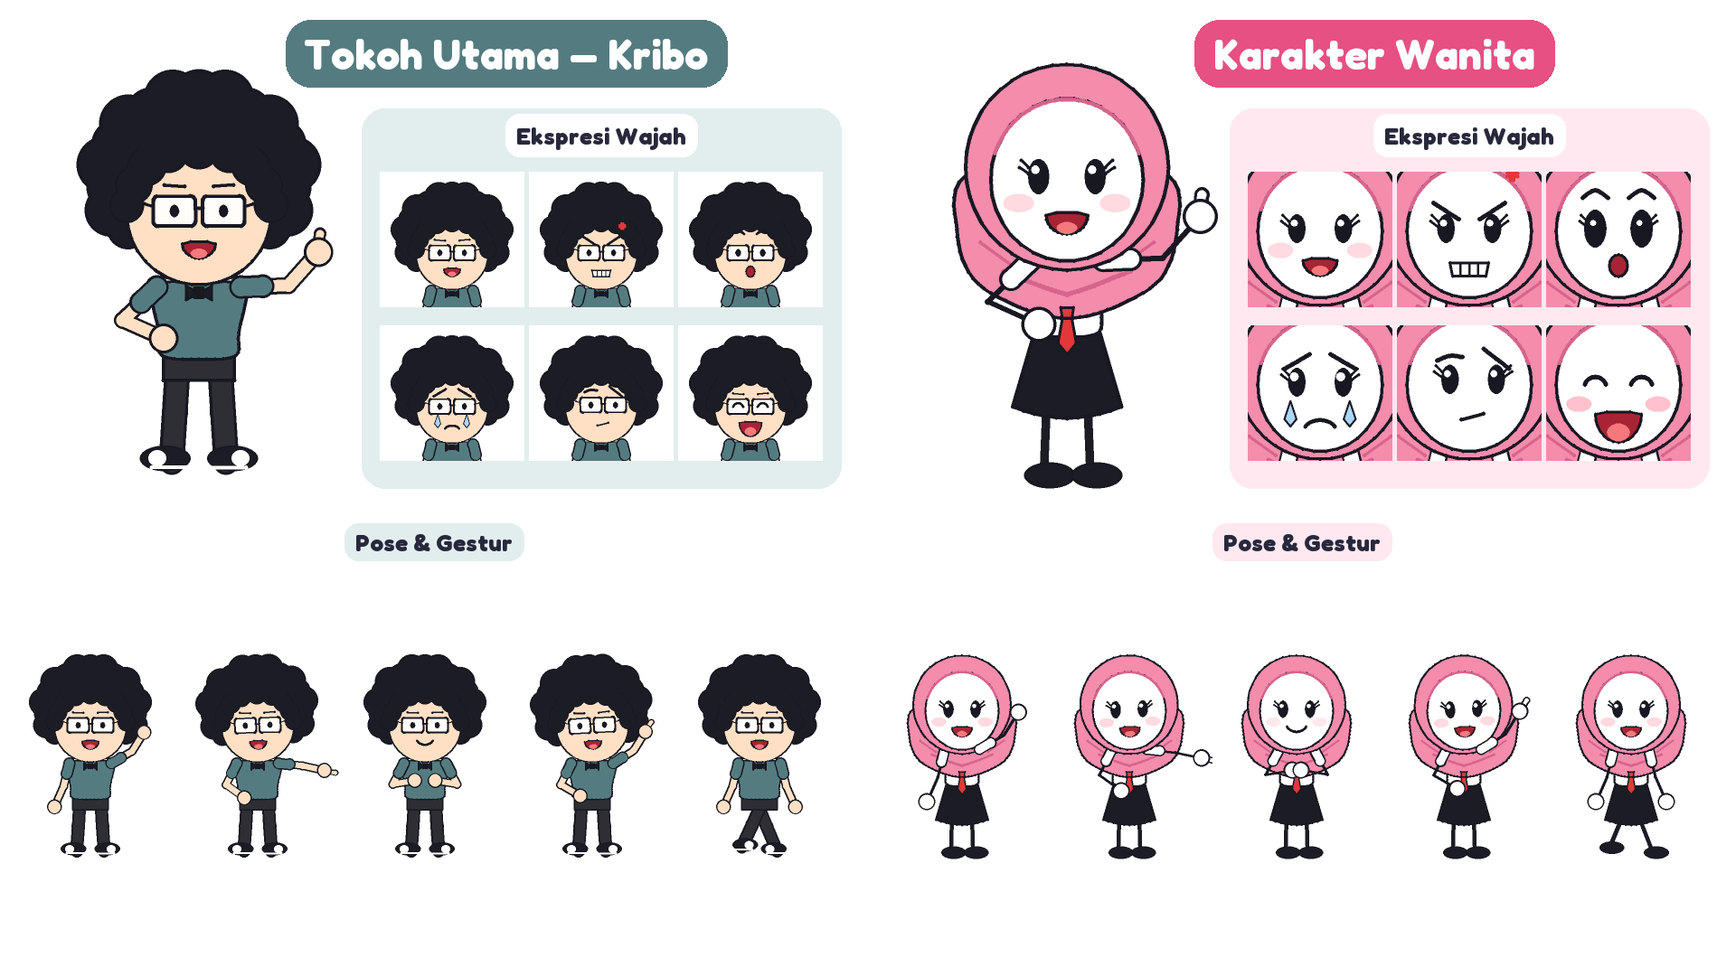
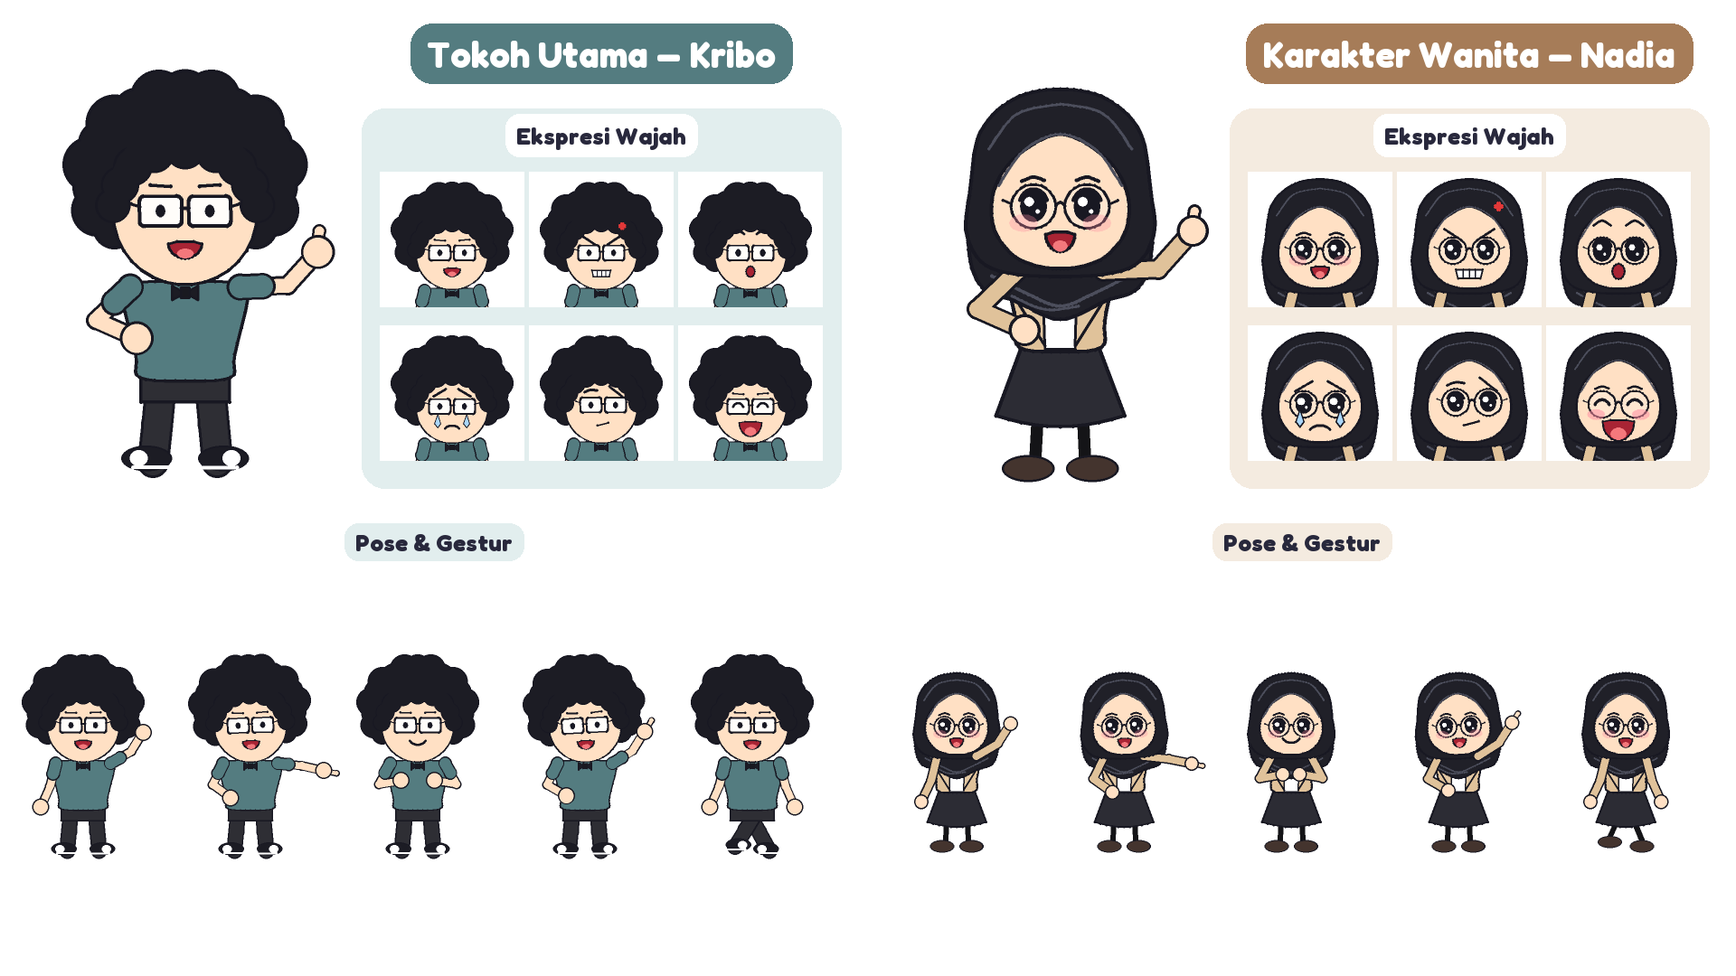
Redesign Nadia chibi hijab character, update gallery asset and docs

diff --git a/stikman-cerita/scripts/tokoh.py b/stikman-cerita/scripts/tokoh.py
@@ -27,11 +27,17 @@ PRESET = {
     "kribo":  dict(nama="Kribo", rambut="afro", rambut_warna=HITAM, kulit=(255, 224, 196),
                    kacamata="kotak", wajah_maskulin=True, kemeja=(84, 124, 128), krah=False, kancing=False,
                    dasi=None, dasi_kupu=True, lengan_tebal=True, sepatu_sneaker=True,
-                   badan_lebar=1.55, pinggul_lebar=1.45, bahu_x=58.0, lengan_besar=1.05,
-                   hip_y=-135.0, kaki_tebal=1.85, kaki_lebar=1.45, sepatu_besar=1.25, tangan_besar=1.05,
+                   badan_lebar=2.05, pinggul_lebar=1.8, bahu_x=76.0, lengan_besar=1.25,
+                   hip_y=-105.0, kaki_tebal=2.4, kaki_lebar=1.7, sepatu_besar=1.25, tangan_besar=1.22,
                    bawah="celana", bawah_warna=(46, 46, 52)),
     "raka":   dict(nama="Raka", rambut="jambul", rambut_warna=HITAM, kemeja=PUTIH, dasi=BIRU, bawah="celana", bawah_warna=HITAM),
-    "nadia":  dict(nama="Nadia", hijab=PINK, hijab_tua=PINK_TUA, kemeja=PUTIH, dasi=MERAH, bawah="rok", bawah_warna=HITAM, bulu_mata=True),
+    "nadia":  dict(nama="Nadia", hijab=(32, 32, 40), hijab_tua=(76, 78, 92), hijab_gaya="modern",
+                   kulit=(255, 224, 196), kacamata="bulat", mata_chibi=True, bulu_mata=False,
+                   kemeja=(224, 194, 154), kemeja_dalam=PUTIH, blazer=True, krah=False, kancing=False, dasi=None,
+                   lengan_tebal=True, lengan_panjang=True,
+                   badan_lebar=1.45, pinggul_lebar=1.4, bahu_x=52.0, lengan_besar=1.0,
+                   hip_y=-138.0, kaki_tebal=1.55, kaki_lebar=1.18, sepatu_besar=1.12, tangan_besar=0.98,
+                   bawah="rok", bawah_warna=(44, 44, 52), sepatu=(68, 52, 46)),
     "bimo":   dict(nama="Bimo", rambut="keriting", rambut_warna=(62, 40, 34), kemeja=PUTIH, dasi=BIRU, bawah="celana", bawah_warna=HITAM),
     "dimas":  dict(nama="Dimas", rambut="rapi", rambut_warna=HITAM, kacamata=True, kemeja=PUTIH, dasi=BIRU, bawah="celana", bawah_warna=HITAM),
     "sari":   dict(nama="Sari", hijab=(250, 250, 252), hijab_tua=ABU, kemeja=PUTIH, dasi=MERAH, bawah="rok", bawah_warna=HITAM, bulu_mata=True),
@@ -257,10 +263,12 @@ class Tokoh:
                 c.line([(fx - toe * fl * 21 * s * sm, fy + 6 * s * sm),
                         (fx + toe * fl * 22 * s * sm, fy + 6 * s * sm)], PUTIH, 3.8 * s * sm)
             else:
-                c.ell(fx + fl * 7 * s, fy - 4 * s, 27 * s, 13 * s, sepatu, ow * .6, OUT)
+                toe = (-1 if i == 0 else 1) if bw > 1.2 else 1
+                c.ell(fx + toe * fl * 7 * s * sm, fy - 4 * s * sm, 27 * s * sm, 13 * s * sm, sepatu, ow * .6, OUT)
         if skirt:
             hem = hy + 74 + dy * 0.9
-            c.poly(TT([(-36, hy - 12), (36, hy - 12), (60, hem - 4)] + bezier((60, hem - 4), (0, hem + 22), (-60, hem - 4), 10)[1:-1] + [(-60, hem - 4)]),
+            sw = max(1.0, hipb * 0.92)
+            c.poly(TT([(-36 * sw, hy - 12), (36 * sw, hy - 12), (60 * sw, hem - 4)] + bezier((60 * sw, hem - 4), (0, hem + 22), (-60 * sw, hem - 4), 10)[1:-1] + [(-60 * sw, hem - 4)]),
                    bawah_c, ow, OUT)
         if not skirt and bw > 1.2:
             c.poly(TT([(-34 * hipb, hy - 14), (34 * hipb, hy - 14),
@@ -270,6 +278,18 @@ class Tokoh:
                    (43 * bw, SHOULDER_Y + 6), (38 * hipb, hy - 44), (35 * hipb, hy - 12),
                    (0, hy - 7), (-35 * hipb, hy - 12), (-38 * hipb, hy - 44)]),
                kemeja, ow, OUT, n=5)
+        if p.get("blazer"):
+            inner_c = warna(p.get("kemeja_dalam"), PUTIH)
+            lap_c = terang(kemeja, 0.08)
+            c.poly(TT([(-19 * bw, SHOULDER_Y + 4), (19 * bw, SHOULDER_Y + 4),
+                       (13 * hipb, hy - 10), (-13 * hipb, hy - 10)]), inner_c, ow * .65, OUT)
+            for sg in (-1, 1):
+                c.poly(TT([(sg * 16 * bw, SHOULDER_Y + 4),
+                           (sg * 34 * bw, SHOULDER_Y + 14),
+                           (sg * 29 * bw, SHOULDER_Y + 34),
+                           (sg * 35 * bw, SHOULDER_Y + 42),
+                           (sg * 13 * hipb, hy - 14),
+                           (sg * 14 * bw, SHOULDER_Y + 26)]), lap_c, ow * .75, OUT)
         if p.get("kemeja_garis"):
             gc = warna(p["kemeja_garis"], BIRU)
             for yy in (-215, -192, -170):
@@ -298,12 +318,22 @@ class Tokoh:
         # ---- hijab: drape di bawah dagu
         if p.get("hijab"):
             hj, hjd = warna(p["hijab"]), warna(p.get("hijab_tua"), gelap(warna(p["hijab"]), .15))
-            c.blob(TT([(-112, -336), (-122, -276), (-104, -222), (-52, -190), (0, -178), (52, -190), (104, -222), (122, -276), (112, -336), (0, -380)]),
-                   hj, ow, OUT, n=7)
-            c.curve(TT([(-70, -230), (-30, -214), (0, -204)]), hjd, 5 * s)
-            c.curve(TT([(70, -230), (30, -214), (0, -204)]), hjd, 5 * s)
-            c.curve(TT([(-96, -262), (-60, -236)]), hjd, 4 * s)
-            c.curve(TT([(96, -262), (60, -236)]), hjd, 4 * s)
+            if p.get("hijab_gaya") == "modern":
+                # selendang hijab modern: melilit leher & jatuh lembut di dada atas agar bahu blazer tetap tampak
+                c.blob(TT([(-100, -328), (-110, -268), (-94, -222), (-54, -206), (0, -184),
+                           (54, -206), (94, -222), (110, -268), (100, -328), (0, -388)]),
+                       hj, ow, OUT, n=7)
+                c.curve(TT([(-82, -236), (-38, -214), (0, -200), (38, -214), (82, -236)]), hjd, 4.0 * s)
+                c.curve(TT([(-58, -212), (-18, -196), (22, -200)]), hjd, 3.4 * s)
+                c.curve(TT([(-94, -264), (-66, -238)]), hjd, 3.2 * s)
+                c.curve(TT([(94, -264), (66, -238)]), hjd, 3.2 * s)
+            else:
+                c.blob(TT([(-112, -336), (-122, -276), (-104, -222), (-52, -190), (0, -178), (52, -190), (104, -222), (122, -276), (112, -336), (0, -380)]),
+                       hj, ow, OUT, n=7)
+                c.curve(TT([(-70, -230), (-30, -214), (0, -204)]), hjd, 5 * s)
+                c.curve(TT([(70, -230), (30, -214), (0, -204)]), hjd, 5 * s)
+                c.curve(TT([(-96, -262), (-60, -236)]), hjd, 4 * s)
+                c.curve(TT([(96, -262), (60, -236)]), hjd, 4 * s)
             # dasi tampak di bawah drape
             if dasi and not p.get("dasi_kupu"):
                 c.poly(TT([(-7, -190), (7, -190), (5, -178), (-5, -178)]), dasi, ow * .7, OUT)
@@ -372,15 +402,20 @@ class Tokoh:
         lb = float(self.p.get("lengan_besar", 1.0)) if tebal else 1.0
         tb = float(self.p.get("tangan_besar", 1.0))
         skin = warna(self.p.get("kulit"), PUTIH)
-        # lengan kartun berisi (tube kulit) atau lengan garis tipis seperti preset lama
-        if tebal:
-            arm_w = 16 * lb
+        # lengan kartun berisi (tube kulit / lengan panjang blazer) atau lengan garis tipis seperti preset lama
+        if self.p.get("lengan_panjang"):
+            arm_w = 19 * lb
             c.line([S, E, H], OUT, (arm_w + 2 * 3.4) * s)
-            c.line([S, E, H], skin, arm_w * s)
+            c.line([S, E, H], sleeve, arm_w * s)
         else:
-            c.line([S, E, H], OUT, 6.5 * s)
-        sl = (sh[0] + (el[0] - sh[0]) * 0.46, sh[1] + (el[1] - sh[1]) * 0.46)
-        c.tube(S, T(*sl), (24 * lb if tebal else 19) * s, sleeve, 3.4 * s)
+            if tebal:
+                arm_w = 16 * lb
+                c.line([S, E, H], OUT, (arm_w + 2 * 3.4) * s)
+                c.line([S, E, H], skin, arm_w * s)
+            else:
+                c.line([S, E, H], OUT, 6.5 * s)
+            sl = (sh[0] + (el[0] - sh[0]) * 0.46, sh[1] + (el[1] - sh[1]) * 0.46)
+            c.tube(S, T(*sl), (24 * lb if tebal else 19) * s, sleeve, 3.4 * s)
         # tangan
         dirv = (H[0] - E[0], H[1] - E[1])
         ang = math.atan2(dirv[1], dirv[0])
@@ -423,8 +458,19 @@ class Tokoh:
         r = p.get("rambut")
         if hij:
             hj, hjd = warna(p["hijab"]), warna(p.get("hijab_tua"), gelap(warna(p["hijab"]), .15))
-            outer = HH(_ellpts(0, -14, 112, 114))
-            c.poly(outer, hj, ow, OUT)
+            if p.get("hijab_gaya") == "modern":
+                # kubah hijab bundar halus (mirip referensi chibi) mengalir lembut ke bahu
+                outer = HH([
+                    (-108, -10), (-96, -78), (-56, -118), (0, -130),
+                    (56, -118), (96, -78), (108, -10),
+                    (112, 46), (82, 86), (0, 96), (-82, 86), (-112, 46),
+                ])
+                c.blob(outer, hj, ow, OUT, n=7)
+                c.curve(HH([(-86, -58), (-52, -100), (0, -112)]), hjd, 3.0 * s)
+                c.curve(HH([(86, -58), (52, -100), (0, -112)]), hjd, 3.0 * s)
+            else:
+                outer = HH(_ellpts(0, -14, 112, 114))
+                c.poly(outer, hj, ow, OUT)
         if r in ("kuncir",) and not hij:
             c.ell(*H(-92, -64), 30 * s, 30 * s, hair_c, ow, OUT)
             c.ell(*H(92, -64), 30 * s, 30 * s, hair_c, ow, OUT)
@@ -450,14 +496,25 @@ class Tokoh:
             for px, py, pr in puffs:
                 c.ell(*H(px, py), pr * s, pr * s, hair_c)
         # wajah
-        face = HH(_ellpts(0, 0, face_rx, face_ry, 34))
-        c.poly(face, warna(p.get("kulit"), PUTIH), ow, OUT)
-        # rambut depan
-        if not hij:
-            self._hair_front(c, H, HH, s, ow, r, hair_c, p)
-        else:
+        if hij and p.get("hijab_gaya") == "modern":
+            face_pts = [
+                (0, -76), (38, -60), (68, -32), (82, 4),
+                (78, 42), (54, 72), (24, 84), (0, 86),
+                (-24, 84), (-54, 72), (-78, 42), (-82, 4),
+                (-68, -32), (-38, -60),
+            ]
+            c.blob(HH(face_pts), warna(p.get("kulit"), PUTIH), ow, OUT, n=5)
             hjd2 = warna(p.get("hijab_tua"), gelap(warna(p["hijab"]), .15))
-            c.curve(HH(arc_pts(0, 2, face_rx + 1, face_ry + 1, 200, 340, 12)), hjd2, 4.2 * s)
+            c.curve(HH([(-74, -14), (-44, -56), (0, -76), (44, -56), (74, -14)]), hjd2, 3.0 * s)
+        else:
+            face = HH(_ellpts(0, 0, face_rx, face_ry, 34))
+            c.poly(face, warna(p.get("kulit"), PUTIH), ow, OUT)
+            # rambut depan
+            if not hij:
+                self._hair_front(c, H, HH, s, ow, r, hair_c, p)
+            else:
+                hjd2 = warna(p.get("hijab_tua"), gelap(warna(p["hijab"]), .15))
+                c.curve(HH(arc_pts(0, 2, face_rx + 1, face_ry + 1, 200, 340, 12)), hjd2, 4.2 * s)
         # topi/peci
         if p.get("peci"):
             c.poly(HH([(-70, -78), (-62, -118), (0, -128), (62, -118), (70, -78), (0, -62)]), HITAM, ow, OUT)
@@ -469,21 +526,26 @@ class Tokoh:
         # fitur wajah
         lx_, ly_ = look
         fs = 0.92 if hij else 1.0
+        chibi_eye = bool(p.get("mata_chibi"))
         fx0, fy0 = lx_ * 15, ly_ * 8
         eyes = ex["eyes"]
         blink = st.get("blink", 0.0)
-        ec = (-34 * fs, 34 * fs)
-        eye_y = -4 * fs + fy0
+        ec = (-35 * fs, 35 * fs) if chibi_eye else (-34 * fs, 34 * fs)
+        eye_y = (10 if chibi_eye else -4) * fs + fy0
         ew = 11.5 * (0.88 if mask else 1.0)
         eh = 17.5 * (1.12 if fem else (0.82 if mask else 1.0))
         hlk = ex.get("hl", 1.0) * (0.72 if mask else 1.0)
-        # lensa kacamata kotak digambar SEBELUM mata agar putih pekat tidak menutupi mata
+        # lensa kacamata digambar SEBELUM mata agar tidak menutupi mata/kilau
         hw, hh_g, rad_g = 29 * fs, 21 * fs, 7 * fs
+        r_bulat = 29 * fs
         if p.get("kacamata") == "kotak":
             for ex_ in ec:
                 gx, gy = ex_ + fx0, eye_y + 2
                 frame = _rectpts(gx - hw, gy - hh_g, gx + hw, gy + hh_g, rad_g, 5)
                 c.poly(HH(frame), (255, 255, 255, 235))
+        elif p.get("kacamata") == "bulat":
+            for ex_ in ec:
+                c.poly(HH(_ellpts(ex_ + fx0, eye_y + 2, r_bulat, r_bulat, 26)), (255, 255, 255, 52))
 
         for i, ex_ in enumerate(ec):
             ex_ = ex_ + fx0
@@ -493,6 +555,22 @@ class Tokoh:
                     sc = 1.15 if eyes == "wide" else 1.0
                     hh = 8.5 * sc * (1 - 0.9 * blink)
                     c.poly(HH(_ellpts(ex_, eye_y + 2, 6.5 * sc, max(1.5, hh), 14)), OUT)
+                elif chibi_eye and eyes in ("oval", "wide", "spark", "half", "wink"):
+                    # mata bulat besar berkilau (gaya chibi anime imut)
+                    sc = 1.15 if eyes == "wide" else 1.0
+                    ew_c = 16.0 * sc
+                    hh = 18.8 * sc * (1 - 0.9 * blink)
+                    if eyes == "half":
+                        hh = 18.8 * 0.52
+                    c.poly(HH(_ellpts(ex_, eye_y + 2, ew_c, max(1.8, hh), 20)), OUT)
+                    if hh > 6:
+                        c.curve(HH(arc_pts(ex_, eye_y + 1, ew_c + 1.4, hh + 1.0, 200, 340, 10)), OUT, 4.0 * s)
+                        c.poly(HH(_ellpts(ex_ - 5.2, eye_y + 2 - hh * .30, 5.8 * hlk, 5.8 * hlk, 12)), PUTIH)
+                        c.poly(HH(_ellpts(ex_ + 5.0, eye_y + 2 + hh * .32, 2.6, 2.6, 10)), PUTIH)
+                    if eyes == "spark" and hh > 6:
+                        c.poly(HH(_ellpts(ex_ - 4.5, eye_y + 2 + hh * .36, 2.4, 2.4, 8)), PUTIH)
+                    if eyes == "half":
+                        c.line(HH([(ex_ - ew_c - 3, eye_y + 2 - hh * .4), (ex_ + ew_c + 3, eye_y + 2 - hh * .4)]), OUT, 4.6 * s)
                 else:
                     sc = 1.3 if eyes == "wide" else 1.0
                     hh = eh * sc * (1 - 0.9 * blink)
@@ -520,7 +598,7 @@ class Tokoh:
                 for k in (0, 1):
                     c.line(HH([(ex_ + sg * 11, eye_y - 10 + k * 7), (ex_ + sg * (19 + k * 2), eye_y - 18 + k * 8)]), OUT, 3.6 * s)
 
-        # bingkai kacamata kotak (di atas mata)
+        # bingkai kacamata (di atas mata)
         if p.get("kacamata") == "kotak":
             for ex_ in ec:
                 gx, gy = ex_ + fx0, eye_y + 2
@@ -530,6 +608,14 @@ class Tokoh:
             for sg in (-1, 1):
                 gx = ec[0 if sg < 0 else 1] + fx0 + sg * hw
                 c.line(HH([(gx, eye_y - 4), (gx + sg * 12 * fs, eye_y - 8)]), OUT, 4.2 * s)
+        elif p.get("kacamata") == "bulat":
+            for ex_ in ec:
+                c.poly(HH(_ellpts(ex_ + fx0, eye_y + 2, r_bulat, r_bulat, 26)), None, 3.4 * s, OUT)
+            c.curve(HH([(ec[0] + fx0 + r_bulat, eye_y + 1), (fx0, eye_y - 3),
+                        (ec[1] + fx0 - r_bulat, eye_y + 1)]), OUT, 3.2 * s, n=6)
+            for sg in (-1, 1):
+                gx = ec[0 if sg < 0 else 1] + fx0 + sg * r_bulat
+                c.line(HH([(gx, eye_y - 1), (gx + sg * 11 * fs, eye_y - 5)]), OUT, 3.0 * s)
         elif p.get("kacamata"):
             for ex_ in ec:
                 c.poly(HH(_ellpts(ex_ + fx0, eye_y, 30, 30, 22)), (255, 255, 255, 70), ow * .9, OUT)
@@ -541,25 +627,36 @@ class Tokoh:
             lift, tl, tr = br
             for i, (bx, tv) in enumerate(((ec[0], tl), (ec[1], tr))):
                 sg = -1 if i == 0 else 1
-                by = eye_y - 30 * fs - lift - (6 if p.get("kacamata") == "kotak" else 0)
+                by = eye_y - 30 * fs - lift - (6 if p.get("kacamata") in ("kotak", "bulat") else 0)
                 outer = (bx + fx0 + sg * 17, by + tv * 11)
                 inner = (bx + fx0 - sg * 17, by - tv * 11)
                 mid = (bx + fx0, by - 4 + (4 if abs(tv) > .5 else 0) + (-6 if lift > 6 else 0))
-                c.curve(HH([outer, mid, inner]), OUT, (6.0 if mask else 5.6) * s)
+                c.curve(HH([outer, mid, inner]), OUT, (6.0 if mask else (4.4 if chibi_eye else 5.6)) * s)
         elif mask:
             # alis tipis & pendek tepat di atas kacamata
             for i, bx in enumerate(ec):
                 sg = -1 if i == 0 else 1
                 by = eye_y - 34
                 c.line(HH([(bx + fx0 + sg * 14, by), (bx + fx0 - sg * 14, by + 2)]), OUT, 5.2 * s)
+        elif chibi_eye:
+            # alis melengkung lembut di atas kacamata bulat
+            for i, bx in enumerate(ec):
+                sg = -1 if i == 0 else 1
+                by = eye_y - 34 * fs
+                c.curve(HH([(bx + fx0 + sg * 14, by + 3), (bx + fx0, by - 2),
+                            (bx + fx0 - sg * 13, by + 2)]), OUT, 3.8 * s)
 
         # pipi (hilangkan blush pink lebar pada mode maskulin kecuali saat sangat malu)
         bl = ex.get("blush", 0.0)
         if mask:
             bl = 0.45 if bl >= 0.95 else 0.0
+        elif chibi_eye and bl > 0.02:
+            bl = max(bl, 0.55)
         if bl > 0.02:
+            bx_off = 48 if chibi_eye else 58
+            by_off = (eye_y + 24 * fs) if chibi_eye else (28 * fs + fy0 * .4)
             for sg in (-1, 1):
-                c.poly(HH(_ellpts(sg * 58 * fs + fx0 * .6, 28 * fs + fy0 * .4, 17, 10.5, 16)), (255, 140, 160, int(150 * bl)))
+                c.poly(HH(_ellpts(sg * bx_off * fs + fx0 * .6, by_off, 17, 10.5, 16)), (255, 140, 160, int(150 * bl)))
         # mulut
         self._mouth(c, st, ex, HH, s, ow, fs, fx0, fy0)
         # kumis jenggot
@@ -644,8 +741,8 @@ class Tokoh:
             else:
                 kind = "open"
                 op = 0.12 + 0.88 * talk
-        mx, my = fx0 * .6, 44 * fs + fy0 * .4
-        k = ex.get("small", 1.0)
+        mx, my = fx0 * .6, (50 if self.p.get("mata_chibi") else 44) * fs + fy0 * .4
+        k = ex.get("small", 1.0) * (0.76 if self.p.get("mata_chibi") and talk is None and kind == "open" else 1.0)
 
         def D(w, d):
             top = [(mx - w, my - 1), (mx - w * .5, my - 4), (mx + w * .5, my - 4), (mx + w, my - 1)]

diff --git a/stikman-cerita/scripts/galeri.py b/stikman-cerita/scripts/galeri.py
@@ -34,22 +34,22 @@ def lembar(out):
     d = ImageDraw.Draw(sheet)
     # kribo jadi tokoh utama di galeri default; kamera wajah disesuaikan dengan afro besar
     cols = [("Tokoh Utama — Kribo", "kribo", (84, 124, 128), (226, 238, 238), 0, Cam(0, -384, 0.40)),
-            ("Karakter Wanita", "nadia", (230, 80, 130), (255, 232, 240), 960, Cam(0, -320, 0.82))]
+            ("Karakter Wanita — Nadia", "nadia", (166, 124, 88), (244, 235, 224), 960, Cam(0, -342, 0.56))]
     eks6 = ["senang", "marah", "kaget", "sedih", "mikir", "tertawa"]
     poses = ["lambai", "tunjuk", "silang", "ide", "jalan"]
     for title, spec, col, light, ox, cam_eks in cols:
         d.ellipse([ox + 30, 90, ox + 400, 460], fill=light)
-        cam_main = Cam(0, -264, 0.80) if spec == "kribo" else Cam(0, -230, 1.0)
+        cam_main = Cam(19, -264, 0.80) if spec == "kribo" else Cam(8, -242, 0.92)
         im = potret(spec, 420, 520, cam_main, pose="jempol", expr="senang")
         sheet.paste(im, (ox + 10, 40))
-        pil(None, title, (ox + 560, 60), 46, (255, 255, 255), col, d)
+        pil(None, title, (ox + 665, 60), 40, (255, 255, 255), col, d)
         d.rounded_rectangle([ox + 400, 120, ox + 930, 540], radius=26, fill=light)
         pil(None, "Ekspresi Wajah", (ox + 665, 150), 26, (40, 40, 60), (255, 255, 255), d)
         for i, e in enumerate(eks6):
             im = potret(spec, 160, 150, cam_eks, expr=e, pose="diam")
             sheet.paste(im, (ox + 420 + (i % 3) * 165, 190 + (i // 3) * 170))
         pil(None, "Pose & Gestur", (ox + 480, 600), 26, (40, 40, 60), light, d)
-        cam_pose = Cam(10, -266, 0.40) if spec == "kribo" else Cam(0, -230, 0.48)
+        cam_pose = Cam(30, -266, 0.40) if spec == "kribo" else Cam(14, -246, 0.42)
         for i, p in enumerate(poses):
             im = potret(spec, 184, 390, cam_pose, pose=p, expr="senang" if p != "silang" else "tenang", t=0.3, amp=1.0 if p == "jalan" else 0, phase=0.9)
             sheet.paste(im, (ox + 12 + i * 185, 640))
@@ -67,7 +67,7 @@ def uji_kribo(out):
     for i, e in enumerate(eks):
         x, y = 30 + (i % 3) * 510, 92 + (i // 3) * 430
         d.rounded_rectangle([x, y, x + 480, y + 388], radius=28, fill=(226, 238, 238))
-        im = potret("kribo", 480, 388, Cam(0, -268, 0.65), expr=e, pose="diam", blink=0.0)
+        im = potret("kribo", 480, 388, Cam(0, -262, 0.65), expr=e, pose="diam", blink=0.0)
         sheet.paste(im, (x, y))
         pil(None, e, (x + 70, y + 352), 26, (255, 255, 255), (84, 124, 128), d)
     d.text((30, H - 32), "Cek: afro tidak menutup kacamata/alis, dasi kupu pas di bawah dagu, lengan & sneaker berwarna sesuai preset.",

diff --git a/stikman-cerita/SKILL.md b/stikman-cerita/SKILL.md
@@ -8,7 +8,7 @@ description: Pembuat video CERITA animasi 2D kartun chibi dengan rig prosedural 
 Kamu adalah **penulis cerita, sutradara animasi + kamera, dan editor**. Hasil akhirnya **MP4 yang sudah jadi dan diverifikasi**, bukan storyboard atau saran. Semua gambar dibuat lewat kode (Python + Pillow + ffmpeg, tanpa instal besar dan tanpa aset luar) dengan gaya tetap:
 
 - **Tokoh utama default: `kribo`** — kartun chibi kepala besar dengan badan kekar/berisi (bukan stik kurus), rambut afro hitam penuh, kacamata persegi bingkai hitam, kulit krem/peach, kaos teal `(84,124,128)` tanpa kerah/kancing, dasi kupu-kupu hitam, celana gelap `(46,46,52)`, lengan berisi warna kulit, sneaker hitam dengan toe-cap putih. Mulut-D merah tetap bergerak mengikuti VO, mata berkedip otomatis, 20 ekspresi + 40+ pose + parallax tidak berubah.
-- **Pemeran bawaan lain (tetap didukung):** Raka (pria jambul, dasi biru), Nadia (hijab pink, dasi merah), Bimo, Dimas, Sari, Tika, Ayah, Ibu, Pak/Bu Guru, Kakek, Adik; bisa dimodifikasi. Kecuali user menunjuk tokoh lain, id utama di `proyek.json` = `kribo` dengan `"tokoh": {"kribo": "kribo"}`.
+- **Pemeran bawaan lain (tetap didukung):** Nadia (chibi hijab hitam modern, kacamata bulat, blazer krem/beige, rok gelap), Raka (pria jambul, dasi biru), Bimo, Dimas, Sari, Tika, Ayah, Ibu, Pak/Bu Guru, Kakek, Adik; bisa dimodifikasi. Kecuali user menunjuk tokoh lain, id utama di `proyek.json` = `kribo` dengan `"tokoh": {"kribo": "kribo"}`.
 - **Dunia komik pastel** bergaris hitam: kamar, sekolah, taman, kelas, ruang belajar, ruang tamu, jalan, kantin, lapangan, rumah, meja makan, padang; empat waktu (pagi/siang/sore/malam) dengan langit, matahari/bulan, lampu.
 - **Kamera virtual** dengan parallax: ini inti skill. Baca `references/kamera.md` sebelum menyusun adegan mana pun.
 - **Suara:** musik orisinal per suasana (ceria, santai, hangat, sedih, tegang, semangat, lucu, misteri, malam) + efek suara yang dipicu otomatis oleh aksi (muncul, langkah, whoosh kamera, punch, ikon, alarm).

diff --git a/stikman-cerita/references/karakter-dan-aksi.md b/stikman-cerita/references/karakter-dan-aksi.md
@@ -4,7 +4,7 @@
 **Jangan mengubah gaya** ini kecuali user meminta; `kribo` dipakai kecuali naskah meminta tokoh lain. Lihat semuanya: `python3 scripts/galeri.py galeri.png --semua`, uji khusus: `python3 scripts/galeri.py uji-kribo.png --kribo`.
 
 ## Tokoh bawaan (`tokoh` di proyek.json)
-**`kribo` (UTAMA — chibi afro hitam, kacamata kotak, kulit peach, kaos teal + dasi kupu-kupu, lengan berisi, sneaker hitam-putih)** · `raka` (pria, rambut jambul hitam, dasi biru) · `nadia` (hijab pink, dasi merah, rok hitam) · `bimo` (rambut keriting) · `dimas` (kacamata) · `sari` (hijab putih) · `tika` (kuncir) · `ayah` · `ibu` (hijab hijau) · `guru` (uban, kacamata, kumis) · `bu_guru` (hijab ungu) · `kakek` (peci, jenggot) · `adik` (kecil, skala 0.8).
+**`kribo` (UTAMA — chibi afro hitam, kacamata kotak, kulit peach, kaos teal + dasi kupu-kupu, lengan berisi, sneaker hitam-putih)** · `nadia` (chibi hijab hitam modern, kacamata bulat tipis, mata chibi berkilau, blazer krem/beige lengan panjang + dalaman putih, rok gelap) · `raka` (pria, rambut jambul hitam, dasi biru) · `bimo` (rambut keriting) · `dimas` (kacamata) · `sari` (hijab putih) · `tika` (kuncir) · `ayah` · `ibu` (hijab hijau) · `guru` (uban, kacamata, kumis) · `bu_guru` (hijab ungu) · `kakek` (peci, jenggot) · `adik` (kecil, skala 0.8).
 
 Pemeran sendiri / modifikasi:
 ```json
